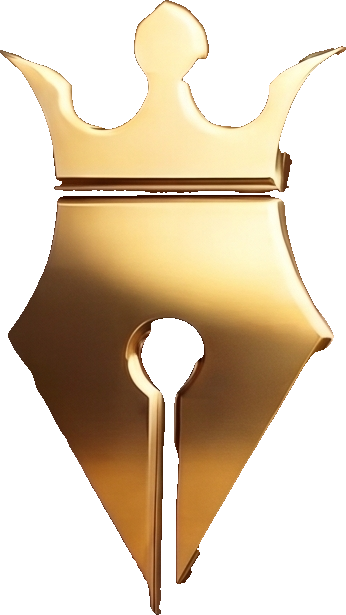
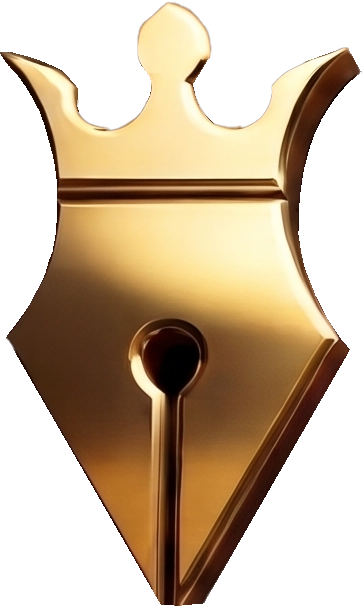
build: update branding assets
Update site icons and emblem with version hash hd7 to ensure cache busting.

diff --git a/src/components/auth/AuthPortal.tsx b/src/components/auth/AuthPortal.tsx
@@ -6,7 +6,7 @@ import {
   saveRuntimeGoogleClientId,
   prefetchGoogleOAuth,
 } from '../../services/googleDriveService';
-import { ACHIEV_LEATHER_HERO_URL, ACHIEV_LEATHER_LOGIN_URL } from '../common/AchievBrand';
+import { ACHIEV_LOCKUP_URL } from '../common/AchievBrand';
 import {
   Database,
   Eye,
@@ -286,23 +286,27 @@ export const AuthPortal: React.FC<AuthPortalProps> = ({
             animation: 'loginIntroFadeOut 0.45s ease-in 2.55s both',
           }}
         >
-          {/* Feathered Leather & Gold Lockup seamlessly melted into HTML Espresso Background */}
+          {/* Crisp Gold Lockup centered at identical hero scale on Espresso Background */}
           <div
-            className="relative flex items-center justify-center w-[min(94vw,760px)] aspect-[1920/1152] select-none"
+            className="relative flex items-center justify-center w-[min(78vw,630px)] select-none"
             style={{ animation: 'loginFinalReveal 0.65s cubic-bezier(0.22, 1, 0.36, 1) both' }}
           >
-            <img
-              src={ACHIEV_LEATHER_HERO_URL}
-              alt="Ach1ev — Settle Ideas"
-              draggable={false}
-              className="w-full h-full object-contain select-none pointer-events-none"
-              style={{
-                WebkitMaskImage:
-                  'radial-gradient(ellipse 48% 46% at 50% 50%, #000 44%, rgba(0,0,0,0.88) 62%, rgba(0,0,0,0.38) 80%, transparent 98%)',
-                maskImage:
-                  'radial-gradient(ellipse 48% 46% at 50% 50%, #000 44%, rgba(0,0,0,0.88) 62%, rgba(0,0,0,0.38) 80%, transparent 98%)',
-              }}
-            />
+            <span
+              className="relative inline-block w-full"
+              style={{ ['--achiev-mask' as string]: `url(${ACHIEV_LOCKUP_URL})` } as React.CSSProperties}
+            >
+              <img
+                src={ACHIEV_LOCKUP_URL}
+                alt="Ach1ev — Settle Ideas"
+                draggable={false}
+                className="w-full h-auto object-contain select-none pointer-events-none"
+                style={{
+                  filter:
+                    'drop-shadow(0 12px 26px rgba(0, 0, 0, 0.85)) drop-shadow(0 3px 10px rgba(42, 18, 6, 0.55))',
+                }}
+              />
+              <span className="achiev-masked-glare achiev-masked-glare-intro" aria-hidden="true" />
+            </span>
           </div>
         </div>
       )}
@@ -342,19 +346,23 @@ export const AuthPortal: React.FC<AuthPortalProps> = ({
         {/* Left: Frameless Brand Panel */}
         <div className="lg:col-span-5 flex flex-col items-center lg:items-start justify-center text-center lg:text-left p-4 sm:p-6 relative">
           <div className="flex flex-col items-center lg:items-start gap-2 w-full">
-            <div className="relative flex items-center justify-center lg:justify-start lg:-ml-5 -my-3 select-none">
-              <img
-                src={ACHIEV_LEATHER_LOGIN_URL}
-                alt="Ach1ev — Settle Ideas"
-                draggable={false}
-                className="h-[108px] sm:h-[134px] w-auto max-w-none object-contain select-none pointer-events-none"
-                style={{
-                  WebkitMaskImage:
-                    'radial-gradient(ellipse 48% 46% at 50% 50%, #000 54%, rgba(0,0,0,0.86) 70%, rgba(0,0,0,0.32) 86%, transparent 98%)',
-                  maskImage:
-                    'radial-gradient(ellipse 48% 46% at 50% 50%, #000 54%, rgba(0,0,0,0.86) 70%, rgba(0,0,0,0.32) 86%, transparent 98%)',
-                }}
-              />
+            <div className="relative flex items-center justify-center lg:justify-start mb-1 select-none">
+              <span
+                className="relative inline-block"
+                style={{ ['--achiev-mask' as string]: `url(${ACHIEV_LOCKUP_URL})` } as React.CSSProperties}
+              >
+                <img
+                  src={ACHIEV_LOCKUP_URL}
+                  alt="Ach1ev — Settle Ideas"
+                  draggable={false}
+                  className="h-[62px] sm:h-[76px] w-auto object-contain select-none pointer-events-none"
+                  style={{
+                    filter:
+                      'drop-shadow(0 8px 18px rgba(0, 0, 0, 0.85)) drop-shadow(0 2px 6px rgba(42, 18, 6, 0.5))',
+                  }}
+                />
+                <span className="achiev-masked-glare" aria-hidden="true" />
+              </span>
             </div>
 
             <p

diff --git a/index.html b/index.html
@@ -9,15 +9,15 @@
     <meta name="apple-mobile-web-app-title" content="Ach1ev" />
     <link rel="canonical" href="https://ach1ev.com/" />
     <link rel="manifest" href="./manifest.webmanifest" />
-    <link rel="icon" type="image/png" href="./assets/brand/achiev-emblem.png?v=hd6" />
-    <link rel="apple-touch-icon" href="./assets/brand/achiev-icon-192.png?v=hd6" />
+    <link rel="icon" type="image/png" href="./assets/brand/achiev-emblem.png?v=hd7" />
+    <link rel="apple-touch-icon" href="./assets/brand/achiev-icon-192.png?v=hd7" />
     <title>Ach1ev — Settle Ideas</title>
     <meta name="description" content="Ach1ev (Settle Ideas) — Multi-device medical and academic note studio with multi-slab reading collage, customizable notebooks, digital pen support, AI research assistant, Supabase real-time sync, and personal Google Drive storage offloading." />
     <meta property="og:site_name" content="Ach1ev" />
     <meta property="og:url" content="https://ach1ev.com/" />
     <meta property="og:title" content="Ach1ev — Settle Ideas" />
     <meta property="og:description" content="Ach1ev (Settle Ideas) — Multi-device medical and academic note studio with customizable notebooks, Supabase real-time sync, and Google Drive storage offloading." />
-    <meta property="og:image" content="https://ach1ev.com/assets/brand/achiev-emblem.png?v=hd6" />
+    <meta property="og:image" content="https://ach1ev.com/assets/brand/achiev-emblem.png?v=hd7" />
     <meta property="og:type" content="website" />
     <meta name="twitter:card" content="summary_large_image" />
     <meta name="twitter:title" content="Ach1ev — Settle Ideas" />

diff --git a/src/App.tsx b/src/App.tsx
@@ -44,7 +44,7 @@ import { TalkToDeveloperModal } from './components/developer/TalkToDeveloperModa
 import { SubscriptionModal } from './components/subscription/SubscriptionModal';
 import { ShareToAIStudioModal } from './components/common/ShareToAIStudioModal';
 import { AuthPortal } from './components/auth/AuthPortal';
-import { ACHIEV_LEATHER_HERO_URL } from './components/common/AchievBrand';
+import { ACHIEV_LOCKUP_URL } from './components/common/AchievBrand';
 import { getThemeMeta } from './data/themeMeta';
 import { useAuth } from './contexts/AuthContext';
 import {
@@ -965,15 +965,13 @@ export default function App() {
         }}
       >
         <img
-          src={ACHIEV_LEATHER_HERO_URL}
+          src={ACHIEV_LOCKUP_URL}
           alt="Ach1ev — Settle Ideas"
           draggable={false}
-          className="w-[min(86vw,520px)] h-auto object-contain select-none pointer-events-none animate-pulse"
+          className="w-[min(72vw,432px)] h-auto object-contain select-none pointer-events-none animate-pulse"
           style={{
-            WebkitMaskImage:
-              'radial-gradient(ellipse 48% 46% at 50% 50%, #000 44%, rgba(0,0,0,0.88) 62%, rgba(0,0,0,0.38) 80%, transparent 98%)',
-            maskImage:
-              'radial-gradient(ellipse 48% 46% at 50% 50%, #000 44%, rgba(0,0,0,0.88) 62%, rgba(0,0,0,0.38) 80%, transparent 98%)',
+            filter:
+              'drop-shadow(0 10px 24px rgba(0, 0, 0, 0.85)) drop-shadow(0 3px 10px rgba(42, 18, 6, 0.5))',
           }}
         />
         <p className="text-xs font-mono opacity-75">Initializing Ach1ev Cloud Workspace...</p>

diff --git a/src/components/common/AchievBrand.tsx b/src/components/common/AchievBrand.tsx
@@ -16,9 +16,10 @@ const resolveAssetUrl = (relativePath: string): string => {
   return `${normalizedBase}${relativePath.replace(/^\/+/, '')}`;
 };
 
-export const ACHIEV_LOGO_URL = resolveAssetUrl('assets/brand/achiev-emblem.png?v=hd6');
-export const ACHIEV_EMBLEM_URL = resolveAssetUrl('assets/brand/achiev-emblem.png?v=hd6');
-export const ACHIEV_WORDMARK_URL = resolveAssetUrl('assets/brand/achiev-wordmark.png?v=hd6');
+export const ACHIEV_LOGO_URL = resolveAssetUrl('assets/brand/achiev-emblem.png?v=hd7');
+export const ACHIEV_EMBLEM_URL = resolveAssetUrl('assets/brand/achiev-emblem.png?v=hd7');
+export const ACHIEV_WORDMARK_URL = resolveAssetUrl('assets/brand/achiev-wordmark.png?v=hd7');
+export const ACHIEV_LOCKUP_URL = resolveAssetUrl('assets/brand/achiev-logo.png?v=hd7');
 export const ACHIEV_LEATHER_HERO_URL = resolveAssetUrl('assets/brand/achiev-leather-hero.jpg?v=1');
 export const ACHIEV_LEATHER_LOGIN_URL = resolveAssetUrl('assets/brand/achiev-leather-login.jpg?v=1');
 

diff --git a/public/sw.js b/public/sw.js
@@ -1,10 +1,10 @@
-const CACHE_NAME = 'ach1ev-app-shell-v4';
+const CACHE_NAME = 'ach1ev-app-shell-v5';
 const STATIC_ASSETS = [
   '/manifest.webmanifest',
-  '/assets/brand/achiev-logo.png?v=hd4',
-  '/assets/brand/achiev-wordmark.png?v=hd4',
-  '/assets/brand/achiev-emblem.png?v=hd4',
-  '/assets/brand/achiev-icon-192.png',
+  '/assets/brand/achiev-logo.png?v=hd7',
+  '/assets/brand/achiev-wordmark.png?v=hd7',
+  '/assets/brand/achiev-emblem.png?v=hd7',
+  '/assets/brand/achiev-icon-192.png?v=hd7',
   '/assets/brand/achiev-icon-512.png',
 ];
 
